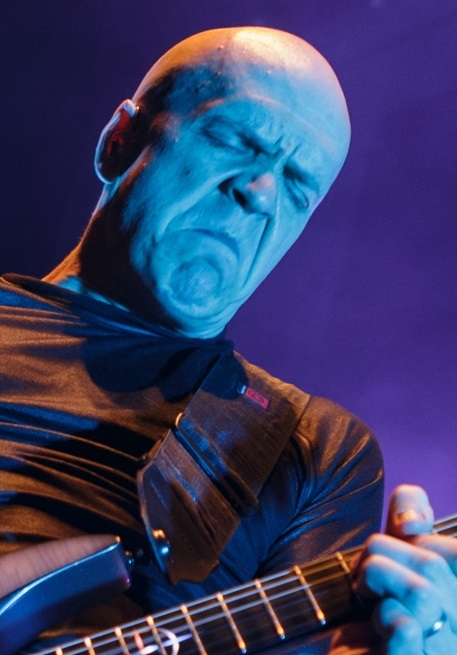
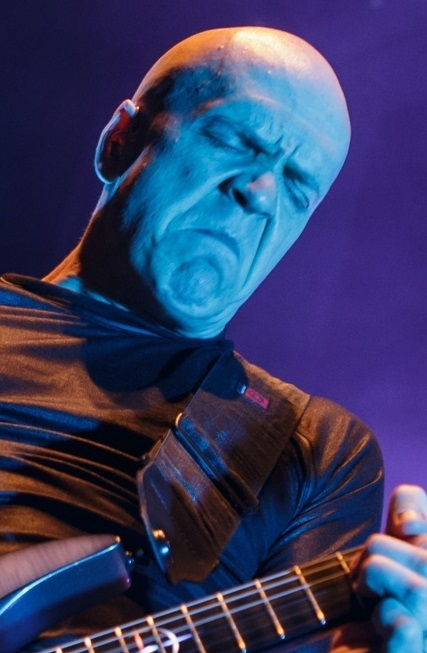
image changes

diff --git a/assets/css/style.css b/assets/css/style.css
@@ -126,7 +126,7 @@ h2{
     #hero-image{
         height:500px;
         width: 100%;
-        background: url('../images/mobilehero.jpg');
+        background: url('../images/devbarmobilesmall.jpg');
         background-repeat: no-repeat;
     }
 }
